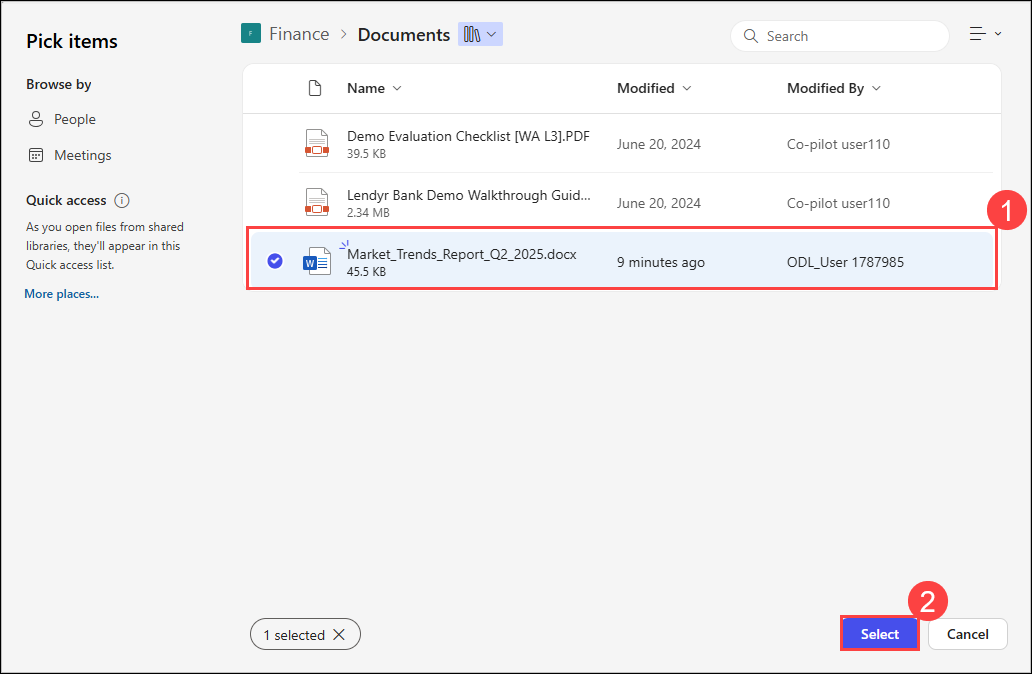
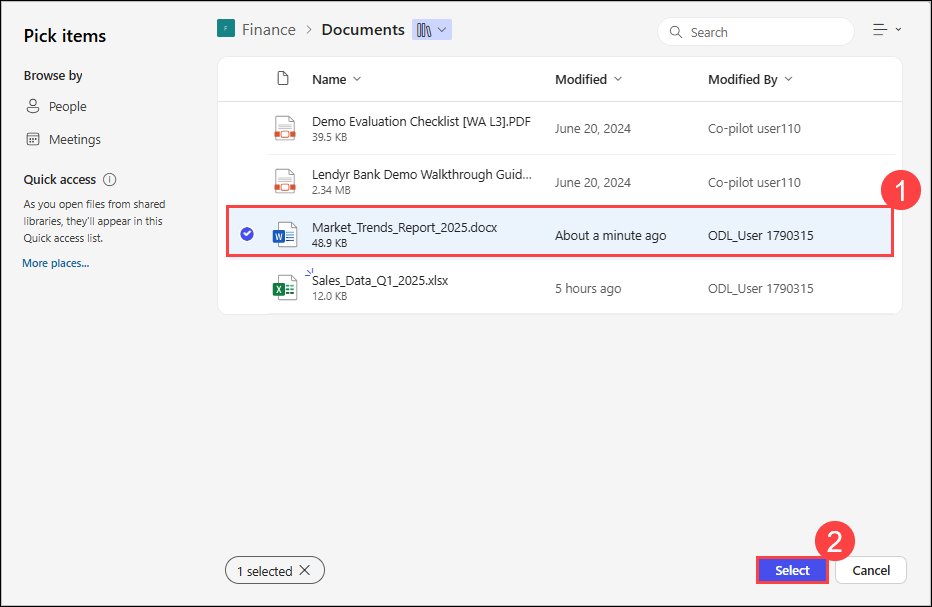
Updates

diff --git a/labguide/Exercise 6.1.md b/labguide/Exercise 6.1.md
@@ -60,7 +60,7 @@ Walk through of M365 Copilot:
         
             ![](./media/Researcher1.png)
 
-        - Select **Market_Trends_Report_Q2_2025.docx (1)**
+        - Select **Market_Trends_Report_2025.docx (1)**
             
             ![](./media/Researcher2.png)
 
@@ -93,7 +93,7 @@ Walk through of M365 Copilot:
 
         ![](./media/Analyst2.png)
 
-    - Enter one of the prompts from below.
+    - Interact with the Agent using the prompts.
             
         - “Summarize the monthly revenue trends.”
 
@@ -116,6 +116,7 @@ Walk through of M365 Copilot:
 ### Task 3: Creating a No-Code Agent
 
 Build and test an agent that can summarize documents and compile findings.
+> **Note:** You don’t need to code or script. The configuration is based on task type and data input.
 
 1. Click **Create Agent**
 
@@ -123,14 +124,16 @@ Build and test an agent that can summarize documents and compile findings.
 
 1. Click on **Configure**
 
-    - Give your agent a name: **Market Trends Researcher**
+    - Give your agent a name: **Market Trends Agent**
 
-    - **Description:** This intelligent agent is designed to help users analyze documents and extract key insights — such as summaries, common themes, and trends — without needing to write any code or use custom logic.
+    - **Description:** This intelligent agent is designed to help users analyze documents and extract key insights - such as summaries, common themes, and trends - without needing to write any code or use custom logic.
 
     - **Instructions:** 
         - Summarize all documents into concise bullet points
 
         - Identify trends and common themes across the uploaded content
+
+        ![](./media/MTA1.png)
 
     - **Knowledge:**
 
@@ -142,7 +145,7 @@ Build and test an agent that can summarize documents and compile findings.
 
             ![](./media/Agent3.png)
         
-        - Select **Market_Trends_Report_Q2_2025.docx (1)** file and click **Select (2)**.
+        - Select **Market_Trends_Report_2025.docx (1)** file and click **Select (2)**.
 
             ![](./media/Agent4.png)
 
@@ -151,5 +154,20 @@ Build and test an agent that can summarize documents and compile findings.
 
     ![](./media/Agent5.png)
 
+1. Once the agent is created you will see the prompt below, click on **Go to agent**.
 
-> **Notes:** You don’t need to code or script. The configuration is based on task type and data input. Mention security and data compliance through Microsoft 365’s boundaries
+    ![](./media/Agent8.png)
+
+1. Interact with the Agent using the prompts.
+
+    - “What are the top three trends in Q2 2025?”
+
+    - “Summarize the key points from the Market Trends report.”
+
+    - “Compare Q2 trends with Q1 if such data is available.”
+
+1. The **Response (1)** from the agent are below, you can also move forward with one of the **Suggested Prompts (2)** or use the prompts in **step 5**
+
+    ![](./media/MTA2.png)
+
+> **Notes:** The responses from the agent may vary.
